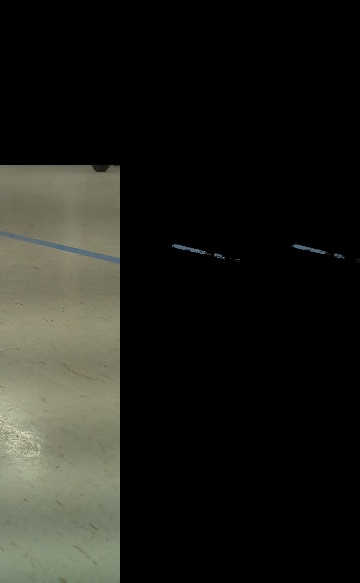
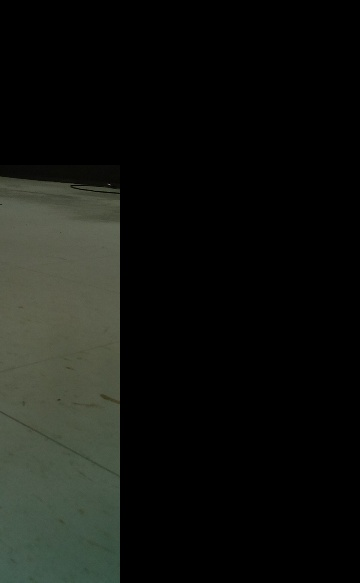
adjusted vals

diff --git a/Demo 2/PiCode/CombinedCode.py b/Demo 2/PiCode/CombinedCode.py
@@ -152,8 +152,8 @@ while(1):
     img2 = cv.cvtColor(img, cv.COLOR_BGR2HSV)
     
     #HSV bounds to isolate blue tape
-    lowerBound = (90, 70, 30)
-    upperBound = (120, 255, 255)
+    lowerBound = (95, 68, 83)
+    upperBound = (140, 216, 198)
     mask = cv.inRange(img2, lowerBound, upperBound)
     imgOut = cv.bitwise_and(img, img, mask = mask)
     
@@ -278,7 +278,7 @@ while(1):
        
     #Begin feedback cycle between camera and arduino
     if stage == 3:
-        buildPackage(distance[ind],angle[ind],2)
+        #buildPackage(distance[ind],angle[ind],2)
         stage = -2
         #if distanceToTape != nan:
             
